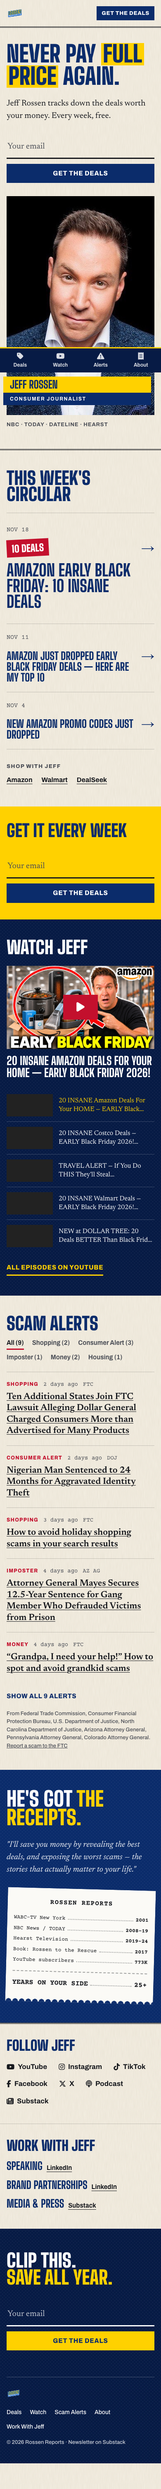
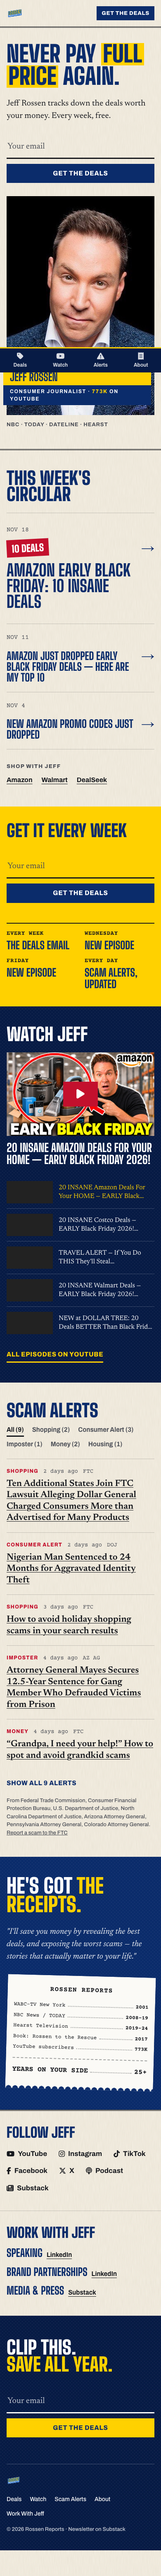
Round 3: colour roles, a week-with-Jeff strip, purposeful motion
- Red now means only price or warning; focus ring and active states go navy
- "Your week with Jeff" in the signup band sets expectations (concept from
  the gatorhavenhouse.com reference); today is marked in real text
- Live YouTube count in the lower third as social proof
- Motion only without reduced-motion: highlight sweep, lower-third slide-in,
  sale-tag stamp, receipt prints, arrow nudge, confirmation slide-in
- Optional ChatGPT spot-illustration prompts; four font options rendered

diff --git a/index.html b/index.html
@@ -47,6 +47,12 @@
     }
     </script>
 
+<script>
+// Motion is opt-in: only for visitors whose OS hasn't asked for reduced motion.
+// Elements are hidden for an entrance only after the script below has armed
+// them, so a failed script never leaves anything invisible.
+if (window.matchMedia && matchMedia('(prefers-reduced-motion: no-preference)').matches) document.documentElement.classList.add('motion');
+</script>
 <style>
 /* Direction: a Sunday-paper deals circular crossed with a TV news lower third.
    Round 2 (Nov 23): no boxes. Structure comes from type, rules and colour
@@ -59,7 +65,9 @@
     --newsprint: #F4EFE3; /* Sunday circular stock: the page */
     --press:     #16181D; /* press-black ink. On newsprint: 16:1 */
     --press-2:   #4A4D55; /* second ink for small text. On newsprint 7.6:1 */
-    --tag-red:   #C3102D; /* sale-tag red. White on it 6.2:1; as small text on newsprint 5.4:1 */
+    --tag-red:   #C3102D; /* sale-tag red. White on it 6.2:1; small text on newsprint 5.4:1.
+                             Reserved for two meanings only: a price/saving, and a warning.
+                             (Plus YouTube's red play button, which readers already know.) */
     --thermal:   #FBFAF6; /* receipt paper */
     --rule:      rgba(22,24,29,.2);
 
@@ -85,7 +93,7 @@ h1, h2, h3, p, ul, ol { margin: 0; }
 ul, ol { padding: 0; list-style: none; }
 .wrap { max-width: 1240px; margin: 0 auto; padding: 0 var(--gutter); }
 .sr-only { position: absolute !important; width: 1px; height: 1px; padding: 0; margin: -1px; overflow: hidden; clip: rect(0 0 0 0); white-space: nowrap; border: 0; }
-:focus-visible { outline: 3px solid var(--tag-red); outline-offset: 3px; }
+:focus-visible { outline: 3px solid var(--navy); outline-offset: 3px; } /* 10:1 on newsprint, 10.6:1 on yellow */
 .on-dark :focus-visible { outline-color: var(--yellow); }
 main:focus, section:focus, ol:focus { outline: none; }
 .skip { position: absolute; left: 12px; top: -60px; z-index: 200; background: var(--navy); color: #fff; padding: 10px 16px; font-family: var(--f-label); font-weight: 800; text-decoration: none; }
@@ -96,7 +104,7 @@ main:focus, section:focus, ol:focus { outline: none; }
 .section > .wrap > h2.head-xl { font-size: clamp(44px, 6vw, 80px); margin-bottom: clamp(24px, 3vw, 40px); }
 .mark { background: linear-gradient(transparent 12%, var(--yellow) 12%, var(--yellow) 92%, transparent 92%); padding: 0 .08em; -webkit-box-decoration-break: clone; box-decoration-break: clone; }
 .go { font-family: var(--f-label); font-weight: 800; font-size: 15px; letter-spacing: .04em; text-transform: uppercase; text-decoration: none; display: inline-block; padding: 6px 0; border-bottom: 3px solid currentColor; }
-.go:hover { color: var(--tag-red); }
+.go:hover { color: var(--navy); border-bottom-width: 5px; }
 
 /* the one solid button style on the page */
 .btn { display: inline-flex; align-items: center; justify-content: center; font-family: var(--f-label); font-weight: 800; font-size: 15px; letter-spacing: .05em; text-transform: uppercase; padding: 15px 24px; border: 0; background: var(--navy); color: #fff; text-decoration: none; cursor: pointer; line-height: 1.1; }
@@ -118,7 +126,7 @@ main:focus, section:focus, ol:focus { outline: none; }
 .mast nav { margin-left: auto; display: flex; gap: 24px; }
 .mast nav a { font-family: var(--f-label); font-weight: 700; font-size: 15px; text-decoration: none; padding: 6px 0; border-bottom: 3px solid transparent; }
 .mast nav a:hover { border-bottom-color: var(--rule); }
-.mast nav a[aria-current] { border-bottom-color: var(--tag-red); }
+.mast nav a[aria-current] { border-bottom-color: var(--navy); }
 .mast .btn { padding: 11px 16px; font-size: 14px; }
 
 /* ── HERO ── */
@@ -128,8 +136,8 @@ main:focus, section:focus, ol:focus { outline: none; }
 .anchor { position: relative; margin: 0; }
 .anchor img { display: block; width: 100%; aspect-ratio: 4/5; object-fit: cover; object-position: center 22%; background: #000; }
 .lower-third { position: absolute; left: -16px; right: 16px; bottom: 24px; }
-.lower-third b { display: block; background: var(--yellow); color: var(--navy); font-family: var(--f-head); font-weight: 800; font-size: 30px; text-transform: uppercase; padding: 6px 16px; line-height: 1.05; }
-.lower-third span { display: block; background: var(--navy); color: #fff; font-family: var(--f-label); font-weight: 700; font-size: 12px; letter-spacing: .14em; text-transform: uppercase; padding: 6px 16px; }
+.lower-third > b { display: block; background: var(--yellow); color: var(--navy); font-family: var(--f-head); font-weight: 800; font-size: 30px; text-transform: uppercase; padding: 6px 16px; line-height: 1.05; }
+.lower-third > span { display: block; background: var(--navy); color: #fff; font-family: var(--f-label); font-weight: 700; font-size: 12px; letter-spacing: .14em; text-transform: uppercase; padding: 6px 16px; }
 .seen { margin-top: 14px; font-family: var(--f-label); font-weight: 700; font-size: 13px; letter-spacing: .06em; text-transform: uppercase; color: var(--press-2); }
 
 /* ── THIS WEEK'S CIRCULAR ── */
@@ -149,7 +157,7 @@ main:focus, section:focus, ol:focus { outline: none; }
 .shops > span { font-weight: 800; letter-spacing: .1em; text-transform: uppercase; font-size: 13px; color: var(--press-2); }
 .shops ul { display: flex; flex-wrap: wrap; gap: 6px 22px; }
 .shops a { font-weight: 700; text-underline-offset: 4px; display: inline-block; padding: 4px 0; }
-.shops a:hover { color: var(--tag-red); }
+.shops a:hover { color: var(--navy); text-decoration-thickness: 3px; }
 
 /* ── MID-PAGE SIGNUP: full-bleed yellow ── */
 .band { background: var(--yellow); }
@@ -182,7 +190,7 @@ main:focus, section:focus, ol:focus { outline: none; }
 .alert-filters { display: flex; flex-wrap: wrap; gap: 4px 20px; }
 .alert-filter { font-family: var(--f-label); font-weight: 700; font-size: 15px; padding: 6px 0; border: 0; border-bottom: 3px solid transparent; background: none; color: var(--press-2); cursor: pointer; }
 .alert-filter:hover { color: var(--press); }
-.alert-filter[aria-pressed="true"] { color: var(--press); border-bottom-color: var(--tag-red); }
+.alert-filter[aria-pressed="true"] { color: var(--press); border-bottom-color: var(--press); }
 .alert-list li { display: grid; grid-template-columns: 140px 1fr; gap: 24px; padding: 20px 0; border-top: 1px solid var(--rule); }
 .alert-meta { font-family: var(--f-mono); font-size: 14px; color: var(--press-2); display: flex; flex-direction: column; gap: 2px; }
 .alert-cat { font-family: var(--f-label); font-weight: 800; font-size: 12px; letter-spacing: .1em; text-transform: uppercase; color: var(--tag-red); }
@@ -216,7 +224,7 @@ main:focus, section:focus, ol:focus { outline: none; }
 .compact h2 { font-family: var(--f-head); font-weight: 900; font-size: clamp(34px, 3.6vw, 48px); text-transform: uppercase; color: var(--navy); line-height: .95; }
 .link-list, .work { display: flex; flex-wrap: wrap; gap: 4px 28px; font-family: var(--f-label); font-weight: 700; font-size: 17px; }
 .link-list a { display: inline-flex; align-items: center; gap: 8px; padding: 6px 0; text-decoration: none; }
-.link-list a:hover, .work a:hover { color: var(--tag-red); }
+.link-list a:hover, .work a:hover { color: var(--navy); text-decoration: underline; text-underline-offset: 4px; }
 .work li { display: flex; align-items: baseline; gap: 10px; padding: 4px 0; }
 .work b { font-family: var(--f-head); font-weight: 800; font-size: 26px; text-transform: uppercase; color: var(--navy); line-height: 1; }
 .work a { font-size: 15px; text-underline-offset: 4px; padding: 4px 0; }
@@ -268,10 +276,47 @@ main:focus, section:focus, ol:focus { outline: none; }
 .nl-sticky-close { margin-left: auto; width: 44px; height: 44px; border: 0; background: none; color: #fff; font-size: 20px; cursor: pointer; }
 @media (max-width: 768px) { .nl-sticky { bottom: calc(62px + env(safe-area-inset-bottom)); } .nl-sticky p { flex-basis: calc(100% - 60px); } }
 
+/* ── YOUR WEEK WITH JEFF (in the yellow band) ──
+   Borrowed concept: say exactly what arrives and when. Knowing the cadence
+   up front is what makes a free signup feel safe. */
+.week { grid-column: 1 / -1; display: grid; grid-template-columns: repeat(4, 1fr); gap: 0 28px; margin-top: 8px; border-top: 2px solid var(--press); }
+.week li { padding-top: 14px; }
+.week-when { display: block; font-family: var(--f-mono); font-weight: 700; font-size: 14px; letter-spacing: .04em; text-transform: uppercase; }
+.week-what { display: block; font-family: var(--f-head); font-weight: 800; font-size: 26px; line-height: 1.05; text-transform: uppercase; color: var(--navy); margin-top: 4px; }
+.week-today { color: var(--navy); } /* real text, not ::after, so it is read and copied; 9:1 on yellow */
+
+/* social proof inside the TV lower third: a real, live number */
+.lower-third > span b { color: var(--yellow); font-weight: 800; }
+
+/* ── MOTION (only under .motion; every effect explains or confirms something) ── */
+.motion .hero .mark { background: linear-gradient(transparent 12%, var(--yellow) 12%, var(--yellow) 92%, transparent 92%) no-repeat 0 0 / 0% 100%; animation: mark-sweep .7s cubic-bezier(.65,0,.35,1) .35s forwards; }
+@keyframes mark-sweep { to { background-size: 100% 100%; } }
+/* the name bar slides on like a broadcast graphic */
+.motion .lower-third > b, .motion .lower-third > span { animation: lt-in .55s cubic-bezier(.2,.8,.2,1) both; }
+.motion .lower-third > b { animation-delay: .5s; }
+.motion .lower-third > span { animation-delay: .65s; }
+@keyframes lt-in { from { clip-path: inset(0 100% 0 0); transform: translateX(-12px); } to { clip-path: inset(0 0 0 0); transform: none; } }
+/* the newest deal's sale tag is stamped on when it comes into view */
+.motion .burst.armed { opacity: 0; transform: rotate(-3deg) scale(1.6); }
+.motion .burst.armed.in { animation: stamp .42s cubic-bezier(.2,1.4,.4,1) forwards; }
+@keyframes stamp { 0% { opacity: 0; transform: rotate(-12deg) scale(1.6); } 100% { opacity: 1; transform: rotate(-3deg) scale(1); } }
+/* the receipt prints, top to bottom, in steps like a register */
+.motion .tape.armed { clip-path: inset(0 0 100% 0); }
+.motion .tape.armed.in { clip-path: inset(0 0 0 0); transition: clip-path 1.5s steps(14, end) .15s; }
+/* arrows lean toward where the link goes */
+.motion .circ-list .arrow { display: inline-block; transition: transform .2s ease; }
+.motion .circ-list a:hover .arrow, .motion .circ-list a:focus-visible .arrow { transform: translateX(6px); }
+/* a confirmation arrives rather than appears */
+.motion .signup-done:not([hidden]) { animation: done-in .45s cubic-bezier(.2,.8,.2,1); }
+@keyframes done-in { from { opacity: 0; transform: translateY(8px); } to { opacity: 1; transform: none; } }
+
+@media print { .armed { opacity: 1 !important; clip-path: none !important; transform: none !important; } }
+
 /* ── RESPONSIVE ── */
 @media (max-width: 980px) {
     .watch-grid, .receipts .wrap, .closer-grid, .band .wrap, .compact .wrap { grid-template-columns: 1fr; }
     .tape { max-width: 420px; }
+    .week { grid-template-columns: repeat(2, 1fr); gap: 0 20px; }
 }
 @media (max-width: 860px) {
     .mast nav { display: none; }
@@ -285,7 +330,7 @@ main:focus, section:focus, ol:focus { outline: none; }
     body { font-size: 17px; }
     .signup { flex-direction: column; align-items: stretch; }
     .lower-third { left: -8px; right: 8px; }
-    .lower-third b { font-size: 26px; }
+    .lower-third > b { font-size: 26px; }
     .alert-list li { grid-template-columns: 1fr; gap: 6px; }
     .alert-meta { flex-direction: row; flex-wrap: wrap; gap: 4px 12px; }
     .tape { font-size: 13px; padding: 22px 16px 30px; }
@@ -295,10 +340,7 @@ main:focus, section:focus, ol:focus { outline: none; }
     .nl-card { padding: 40px 20px 24px; }
     .nl-title { font-size: 46px; }
 }
-@media (prefers-reduced-motion: no-preference) {
-    .burst { transition: transform .2s ease; }
-    .circ-list li:first-child a:hover .burst { transform: rotate(-6deg) scale(1.05); }
-}
+
 </style>
 </head>
 <body>
@@ -336,7 +378,7 @@ main:focus, section:focus, ol:focus { outline: none; }
         <div>
             <figure class="anchor">
                 <img src="jeff-rossen-headshot.jpg" alt="Jeff Rossen" width="614" height="529">
-                <figcaption class="lower-third"><b>Jeff Rossen</b><span>Consumer journalist</span></figcaption>
+                <figcaption class="lower-third"><b>Jeff Rossen</b><span>Consumer journalist · <b id="ltCount">773K</b> on YouTube</span></figcaption>
             </figure>
             <p class="seen">NBC · TODAY · Dateline · Hearst</p>
         </div>
@@ -387,6 +429,12 @@ main:focus, section:focus, ol:focus { outline: none; }
             <p class="signup-status" id="bandStatus" role="status"></p>
             <p class="signup-done" id="bandDone" tabindex="-1" hidden>You're in. Check your inbox!</p>
         </div>
+        <ul class="week" id="week" aria-label="What you get each week">
+            <li><span class="week-when">Every week</span><span class="week-what">The deals email</span></li>
+            <li data-day="3"><span class="week-when">Wednesday</span><span class="week-what">New episode</span></li>
+            <li data-day="5"><span class="week-when">Friday</span><span class="week-what">New episode</span></li>
+            <li><span class="week-when">Every day</span><span class="week-what">Scam alerts, updated</span></li>
+        </ul>
     </div>
 </section>
 
@@ -559,6 +607,19 @@ function onReady(fn) {
     else fn();
 }
 document.getElementById('year').textContent = new Date().getFullYear();
+
+// ── YOUR WEEK: mark today if it's an episode day ──
+(function () {
+    var d = new Date().getDay();
+    Array.prototype.forEach.call(document.querySelectorAll('#week [data-day]'), function (li) {
+        if (Number(li.getAttribute('data-day')) === d) {
+            var t = document.createElement('span');
+            t.className = 'week-today';
+            t.textContent = ' · today';
+            li.querySelector('.week-when').appendChild(t);
+        }
+    });
+})();
 
 // ── EMAIL SIGNUP ──
 // One code path for every form on the page, including the Substack fallback.
@@ -930,14 +991,16 @@ var EMAIL_RE = /^[^\s@]+@[^\s@]+\.[^\s@]+$/;
 // YouTube publishes the count to three significant figures, so it arrives rounded.
 function applyLiveStats() {
     var el = document.querySelector('#credsRow [data-source="youtube"]');
-    if (!el) return;
+    var lt = document.getElementById('ltCount');
     fetch('/api/stats')
         .then(function (r) { return r.ok ? r.json() : null; })
         .then(function (d) {
             if (!d || !d.subscribers) return;
             var n = d.subscribersRounded || d.subscribers;
-            el.textContent = n >= 1e6 ? (n / 1e6).toFixed(1).replace(/\.0$/, '') + 'M'
+            var txt = n >= 1e6 ? (n / 1e6).toFixed(1).replace(/\.0$/, '') + 'M'
                 : n >= 1000 ? Math.round(n / 1000) + 'K' : String(n);
+            if (el) el.textContent = txt;
+            if (lt) lt.textContent = txt;
         })
         .catch(function () {});
 }
@@ -1099,6 +1162,24 @@ onReady(function () {
     update();
     setInterval(update, 1000);
 });
+
+// ── MOTION: entrances that explain something ──
+// Arm and observe in the same pass: nothing is hidden unless it is also being
+// watched, and without IntersectionObserver nothing is ever hidden at all.
+(function () {
+    if (!document.documentElement.classList.contains('motion') || !('IntersectionObserver' in window)) return;
+    var io = new IntersectionObserver(function (entries) {
+        entries.forEach(function (e) {
+            if (e.isIntersecting) { e.target.classList.add('in'); io.unobserve(e.target); }
+        });
+    }, { rootMargin: '0px 0px -15% 0px' });
+    function arm(el) { if (el && !el.classList.contains('armed')) { el.classList.add('armed'); io.observe(el); } }
+    arm(document.querySelector('.tape'));
+    arm(document.querySelector('#circTags .burst'));
+    // The circular is rebuilt when the newsletter feed arrives; stamp the new tag too.
+    new MutationObserver(function () { arm(document.querySelector('#circTags .burst')); })
+        .observe(document.getElementById('circTags'), { childList: true });
+})();
 </script>
 </body>
 </html>

diff --git a/design-source/CHATGPT_PROMPTS.md b/design-source/CHATGPT_PROMPTS.md
@@ -1,0 +1,41 @@
+# ChatGPT image prompts: Rossen Reports
+
+**Optional.** The site works without these. If you make them, they go on the four items in **"Your week with Jeff"** (the yellow band). Right now those items are type only.
+
+The style is a 1950s newspaper-circular engraving: one ink colour on a flat background, so the art reads as printed matter and not stock illustration.
+
+## How to run them
+
+1. Open **one new ChatGPT chat** for this set.
+2. Send prompt 0 by itself first. It locks the style.
+3. Send prompts 1–4 one at a time in **that same chat**.
+4. Download each result as a file, named to match: `1-envelope.png`, `2-tv.png`, `3-tv-friday.png`, `4-magnifier.png`.
+5. Send me the files. Attachments are fine; pasted images often can't be saved.
+
+There are no logos, brand names or text in any prompt. Generated lettering comes out garbled, so the words stay in the site's own text.
+
+---
+
+### 0. Style lock (send first, by itself)
+
+> For this whole conversation, match this house style: a 1950s American newspaper ad engraving, like spot illustrations in a Sunday grocery circular. Fine parallel-line and cross-hatch shading, confident outlines. Single ink colour: navy #0B2C6B on a plain flat background of #FFD100 (bright yellow). No text, no letters, no numbers, no logos, no borders, no watermarks. Square, 1024 by 1024, highest resolution you can produce. Reply only with the image.
+
+### 1. The deals email → `1-envelope.png`
+
+> Same engraving style as the set: a paper envelope tilted slightly, flap open, with a few clipped coupons with scalloped edges fanning out of it. Single navy ink (#0B2C6B) on plain yellow (#FFD100), centered with lots of empty space around it. No text, no logos, no frame.
+
+### 2. Wednesday episode → `2-tv.png`
+
+> Same engraving style as the set: a 1950s console television set seen at a three-quarter angle, rabbit-ear antenna, the screen showing only soft horizontal scan lines. Single navy ink (#0B2C6B) on plain yellow (#FFD100), centered with lots of empty space. No text, no logos, no frame.
+
+### 3. Friday episode → `3-tv-friday.png`
+
+> Same engraving style as the set: a small vintage tabletop radio-television combo with a round dial, seen straight on, screen showing soft scan lines. Single navy ink (#0B2C6B) on plain yellow (#FFD100), centered with lots of empty space. No text, no logos, no frame.
+
+### 4. Scam alerts → `4-magnifier.png`
+
+> Same engraving style as the set: a magnifying glass held over a long paper receipt that curls at the bottom, the lens slightly enlarging the dotted lines on the receipt. Single navy ink (#0B2C6B) on plain yellow (#FFD100), centered with lots of empty space. No text, no numbers, no logos, no frame.
+
+---
+
+**When they come back,** I'll check each one: no stray lettering, no extra objects, and the ink matches. Then I'll trace them into crisp single-colour SVGs and place them above each line in the week strip.
